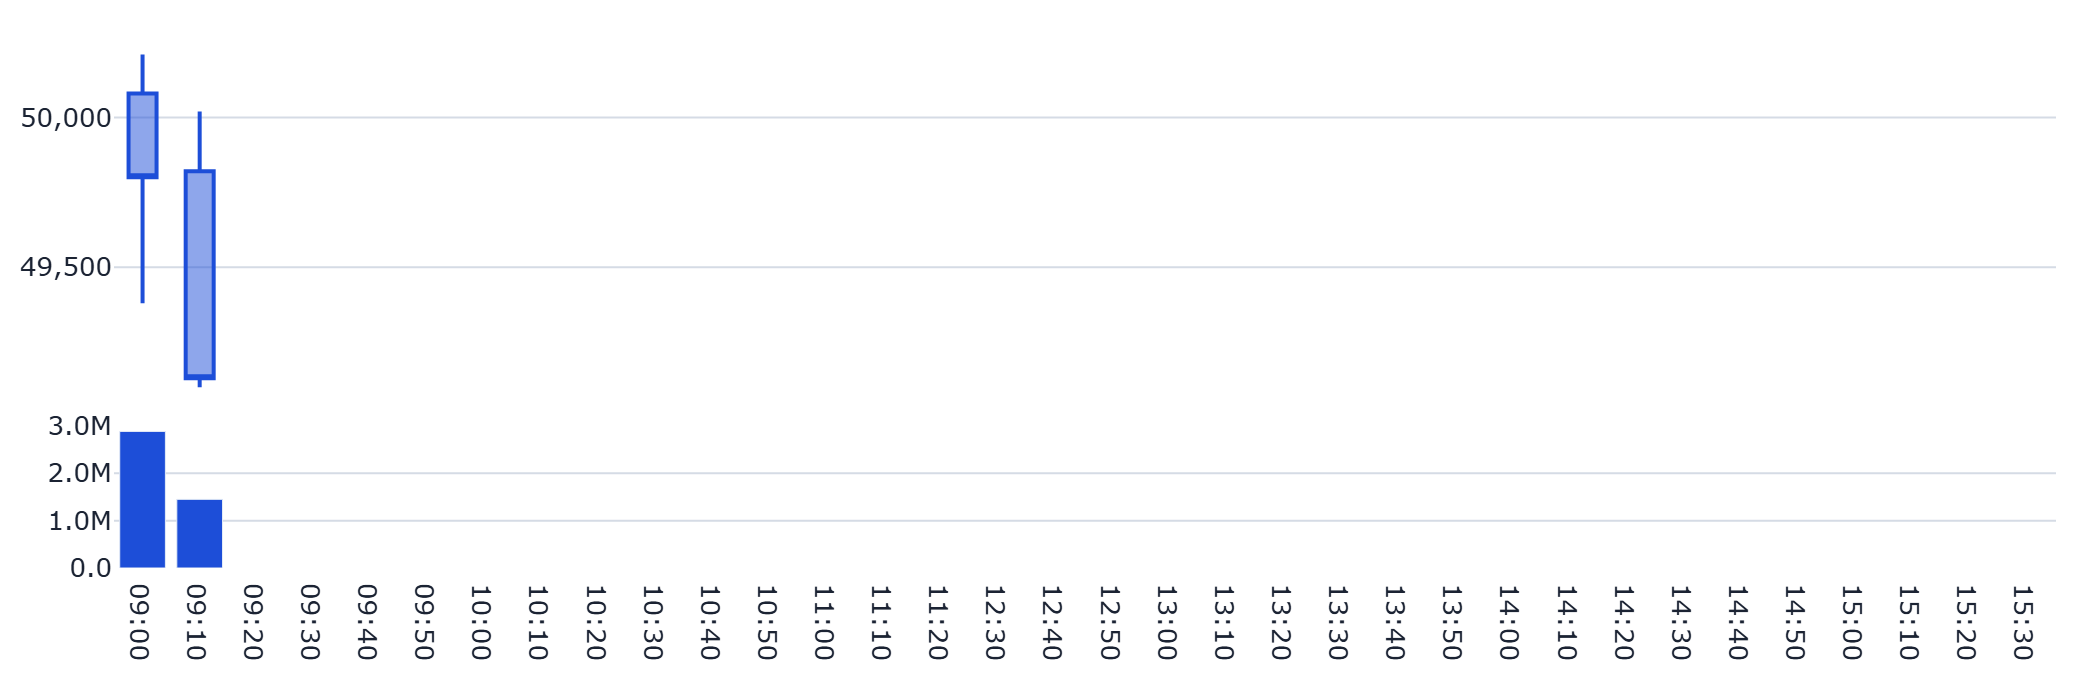
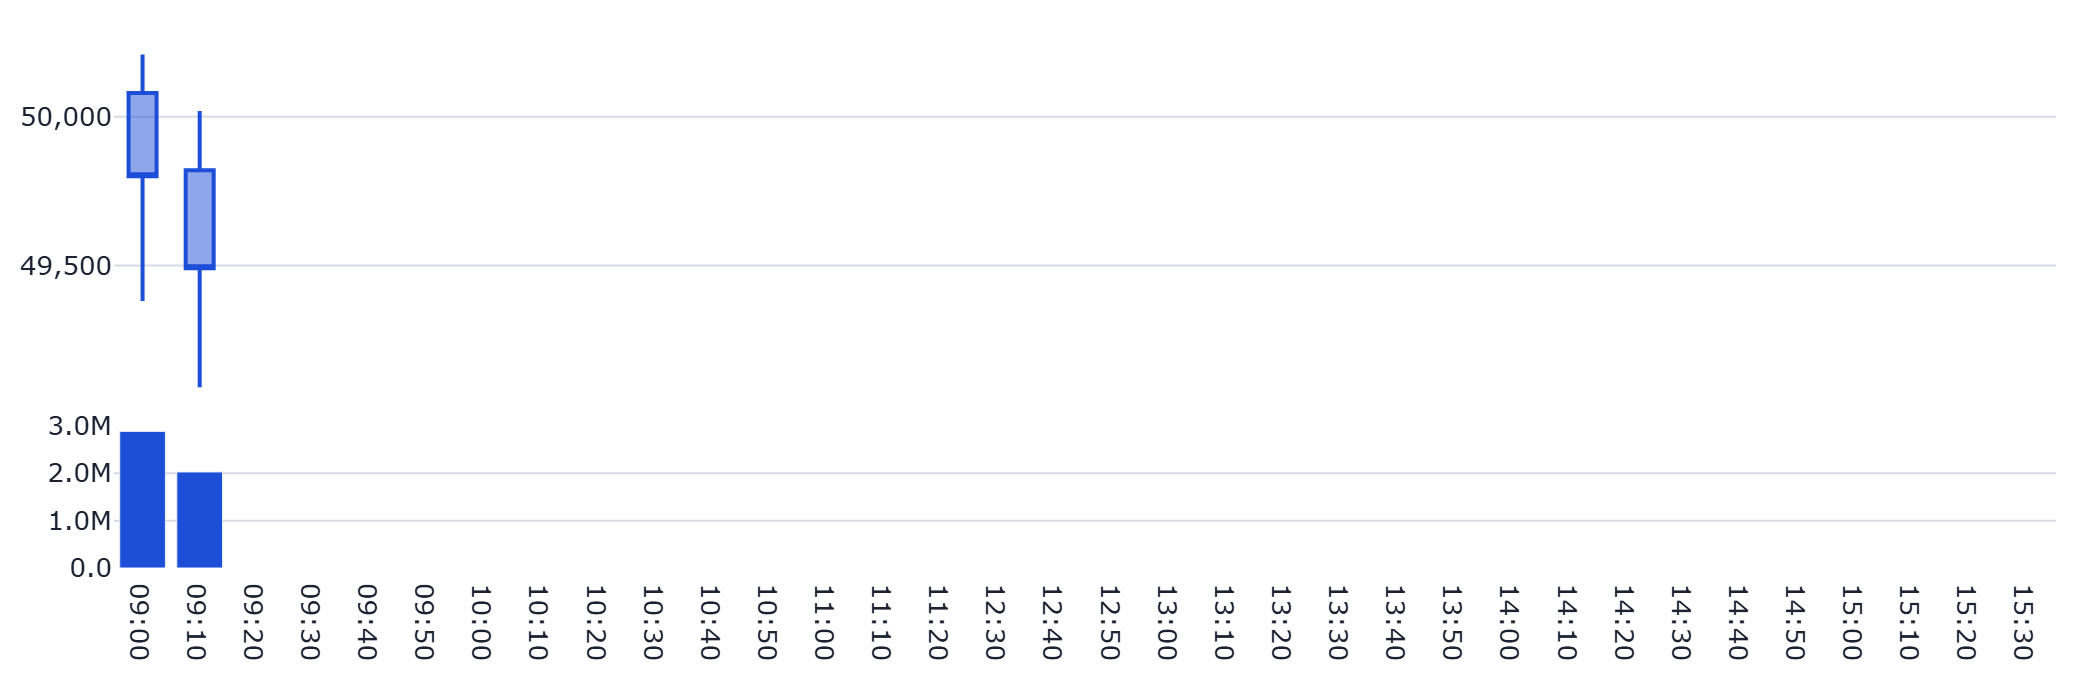
auto: refresh static dashboard (2026-08-25 09:21:13 JST)

diff --git a/docs/index.html b/docs/index.html
@@ -96,13 +96,13 @@
       <div class="panel header">
         <span class="symbol">285A</span>
         <span class="company">キオクシアホールディングス</span>
-        <span class="price">49,130円</span>
-        <span class="chg" style="color:#1D4ED8">-3.53%</span>
+        <span class="price">49,490円</span>
+        <span class="chg" style="color:#1D4ED8">-2.83%</span>
       </div>
       <p class="caption">更新時刻: 2026-08-25T09:09:26（データは1分間隔で自動生成され、このページも
       60秒毎に自動再読み込みされます）</p>
-      <p class='caption'>⚠ データの更新が約9分前から止まっている可能性があります(通常は1分毎に自動生成)。</p>
-      <p id='visit-count-badge' class='caption' style='display:none'></p>
+      <p class='caption'>⚠ データの更新が約12分前から止まっている可能性があります(通常は1分毎に自動生成)。</p>
+      <p id='visit-count-badge' class='caption'>👀 累計閲覧数: 514</p>
 
       <h2>🔥😱 2大メーター・ボラレジーム</h2>
       <div class="grid3">
@@ -140,7 +140,7 @@
 
       <h2>📅 本日の推移（イントラデイ）</h2>
       <h3>本日の価格推移（10分足ローソク足・出来高）</h3>
-      <p class='caption'>本日の高値 50,210円 ／ 安値 49,100円</p>
+      <p class='caption'>本日の高値 50,210円 ／ 安値 49,090円</p>
       <div class="panel"><figure><img src='images/today_price.png' alt='本日の価格推移' loading='lazy'></figure></div>
       <h3>板の買い・売り総計（成行込み全価格帯・60秒平均）</h3>
       <p class="caption">表示10本の気配だけでなく、外側の気配(OVER/UNDER)と成行注文も含めた板全体の数量合計です。
@@ -163,7 +163,7 @@
       
 
       <h2>🤖 AI考察</h2>
-      <div class='metric-row'><div class='metric-card'><div class='metric-label'>株価</div><div class='metric-value'>49,130円</div><div class='metric-delta'>-1800円</div></div><div class='metric-card'><div class='metric-label'>強気比率</div><div class='metric-value'>33.2%</div><div class='metric-delta'>-0.3pt</div></div><div class='metric-card'><div class='metric-label'>弱気比率</div><div class='metric-value'>58.6%</div><div class='metric-delta'>+0.2pt</div></div></div><p class='caption'>前回集計(2026-08-25T08:59:26)との比較</p>
+      <div class='metric-row'><div class='metric-card'><div class='metric-label'>株価</div><div class='metric-value'>49,490円</div><div class='metric-delta'>-1440円</div></div><div class='metric-card'><div class='metric-label'>強気比率</div><div class='metric-value'>33.2%</div><div class='metric-delta'>-0.3pt</div></div><div class='metric-card'><div class='metric-label'>弱気比率</div><div class='metric-value'>58.6%</div><div class='metric-delta'>+0.2pt</div></div></div><p class='caption'>前回集計(2026-08-25T08:59:26)との比較</p>
       <div class='ai-box'>掲示板の集計センチメントデータに基づく分析であり、投資助言ではありません。<br>
 <br>
 キオクシアホールディングス（285A）について、本日前場の取引時間内における掲示板の集計データを基に現状を整理します。<br>
@@ -180,7 +180,7 @@
 
       <hr style="border:none;border-top:1px solid var(--border);margin:2rem 0 1rem">
       <p class="caption">⚠ 本情報は掲示板投稿を統計的に集計したものであり、投資助言ではありません。個別の投稿内容は含まれていません。研究・エンタメ用途です。</p>
-      <footer>生成: generate_static_dashboard.py（2026-08-25T09:18:49） /
+      <footer>生成: generate_static_dashboard.py（2026-08-25T09:21:10） /
       画像バックエンド: plotly+kaleido</footer>
     </div>
     <script>(function(){var url="https://script.google.com/macros/s/AKfycbwgSSGQ2n56ohmIYKlNDA1Xe3D8hd3GJbD0U90L4DGtXdb8pqrPokNMHJWjvN1__7bE/exec";var KEY='bbs_visit_counted';var already=sessionStorage.getItem(KEY);var action=already?'read':'hit';var ctrl=(typeof AbortController!=='undefined')?new AbortController():null;var timer=ctrl?setTimeout(function(){ctrl.abort();},5000):null;fetch(url+'?action='+action,{signal:ctrl?ctrl.signal:undefined}).then(function(r){if(timer)clearTimeout(timer);return r.json();}).then(function(data){if(!already)sessionStorage.setItem(KEY,'1');if(data&&typeof data.count==='number'){var el=document.getElementById('visit-count-badge');if(el){el.textContent='\u{1F440} \u7d2f\u8a08\u95b2\u89a7\u6570: '+data.count.toLocaleString();el.style.display='';}}}).catch(function(e){if(timer)clearTimeout(timer);console.warn('visit counter fetch failed (fail-soft):',e);});})();</script></body></html>
